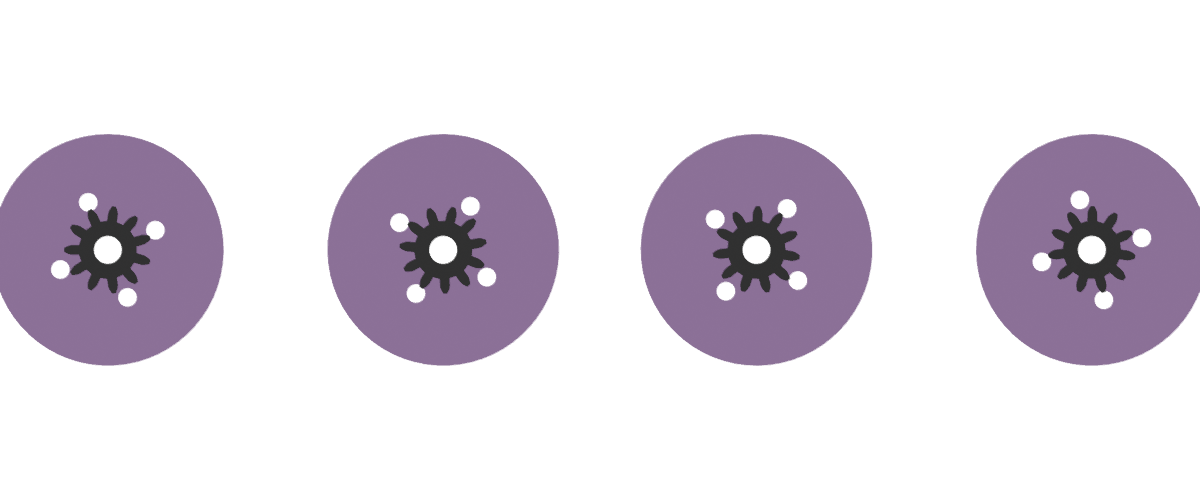
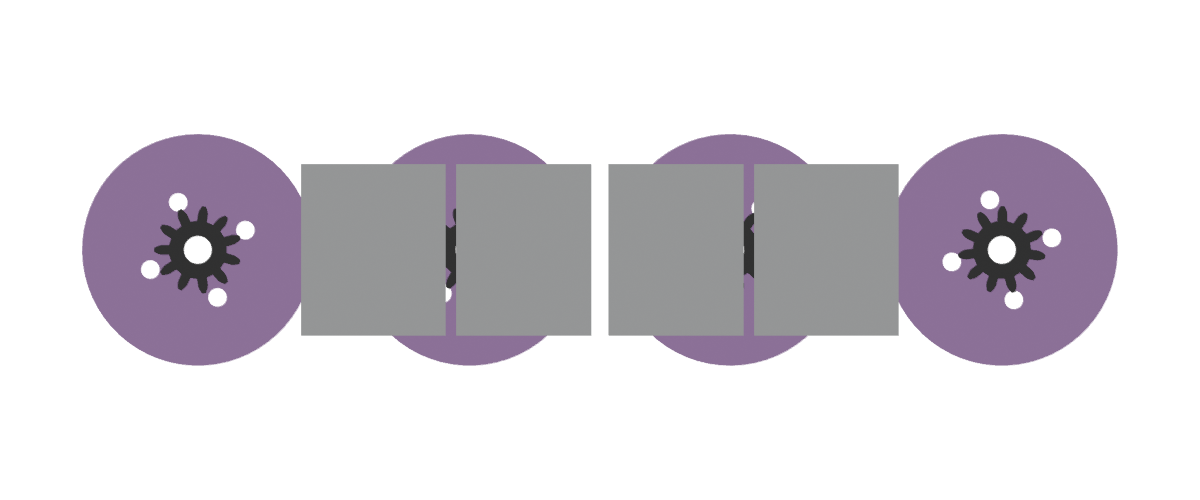
Т. Моторчик 19.59: шаг пальцев 17, длина 123.8; хроника

diff --git a/wiki/t-motorchik-v-telezhki.md b/wiki/t-motorchik-v-telezhki.md
@@ -100,4 +100,4 @@
 | 19.56 | **План проверок v6: вибро, положение, клик** (16.11) — 12 опытов, по итогу выбрать схему | **Вибро от гимбала** (на ток мотора подмешать синус ~80–250 Гц, дрожь идёт через шестерни и рейку прямо в тележку — таблетки могут стать не нужны): **1)** двигать тележку с вибрацией от гимбала, модуль как есть; **2)** то же + мягкая подложка (TPU) под дном всего модуля; **3)** то же + мягкая подложка + крепления мотора жёстко связаны с балкой (мотор и балка — одно целое на мягком). **Вибро-таблетки:** **4)** таблетки под балкой (лёжа); **5)** таблетки боком (стоймя в держателях снизу моста, как в v6); **6)** таблетки + мягкое основание столбов (TPU между столбами и балкой). **Положение тележки:** **7)** магниты сверху (платформа на роторе, 49E в мосту — вариант А); **8)** магниты сбоку (чехол на колоколе, 49E в основании — вариант Б). **Клик:** **9)** кнопка только под одним столбом, внизу; **10)** кнопки под обоими столбами, внизу; **11)** кнопка на конце балки, вверху; **12)** две кнопки на концах балки. Для каждого опыта записать: сила и чёткость ощущения в пальце, утекает ли вибрация в корпус/соседей, чистый ли сигнал 49E (в т.ч. при работе мотора и вибро), чёткость щелчка при нажатии в середине и у краёв хода. Итог — таблица «опыт → результат», по ней выбрать схему для 4 модулей. Модели: строка 19.55 (teleskop_v6 А/Б) | ⬜ Не начато |
 | 19.57 | **Телескоп v6-А, 49E СНИЗУ: колпак ротора с магнитами + датчики в основании** (18.11) | Тест стола 118 (49E в мосту над платформой, зазор 1.5): оба датчика видят магниты отлично (размах ~1600 из 4096), но волны A и B почти в фазе — круг A–B вышел линией, угол не считается. Причины: бобышки упёрлись в край моста и сдвиг вышел ~15° вместо 22.5°; зазор 1.5 даёт острые пики вместо синуса. Заодно упрощаем сборку и проводку. **Колпак ротора (03a) — одна деталь:** платформа сверху (4×М2 в мотор, квадрат под шестерню 03b), юбка вокруг колокола, внизу полка Ø38 с 8 гнёздами под магниты Ø4×1.9 **лицом вниз** на r16.4 (N/S через один); над полкой скос 45° — печать вверх ногами без поддержек. **49E в основании по бокам ободка мотора:** гнёзда ровно по осям (параллельно стенкам), датчик 4.1×3.0×1.5 лежит плашмя лицом вверх, бортики 0.8 с трёх сторон, наружная сторона открыта под выводы, сразу за ней щель проводов вниз сквозь дно. Углы −11.25° и 191.25° (разница ≡ 22.5° — честная квадратура при периоде 90°), зазор магнит—датчик 2.5 (пики → синус). Датчики неподвижны, проводка вся снизу вместе с мотором; в мосту бобышек и канавок больше нет. Сборка: 49E в гнёзда → мотор в ободок → колпак на колокол (4 винта) → шестерня в квадрат → дальше как было. Цена: основание сзади длиннее (43.6), направляющие ножек ниже (8). Рейка тележки на 0.25 ближе к шестерням (проскоки). Планка осей убрана (пока не нужна), оси плавающих шестерён вровень с шестернями. Проверка хода и посадок чистая, STL герметичны. Тест-стенд 49E: папка gitar_49e_test в 3-0 — ESP32 (A: GPIO34 от 3.3V, B: GPIO12 с питанием от GPIO13) + страница web_plot.html (Web Serial: волны, круг A–B, угол). Файлы: [3-0/19.57_teleskop_v6_A_niz](https://github.com/Korvova/gitar/tree/main/3-0/19.57_teleskop_v6_A_niz) (STL, teleskop_v6.py, blender_v6.py, .blend); генератор также в [2-0/teleskop_v6](https://github.com/Korvova/gitar/blob/main/2-0/teleskop_v6/teleskop_v6.py) | 🔄 Печать: основание 01, колпак 03a, мост 02 |
 | 19.58 | **Пара на 2 пальца: тележка спереди над шестернями, два модуля на общем основании** (18.11) | Идея владельца, решает длину вдоль струн (шаг пальцев 24 при моторе Ø27.8). Основа — v6-А снизу (19.57): колпак ротора с магнитами, 49E в основании. **Вариант 2** ([variant2.py](https://github.com/Korvova/gitar/blob/main/3-0/19.58_variant2/variant2.py), стол 119): тележка перенесена **вперёд, прямо над плавающими шестернями**; её рейка зубьями **внутрь**, спинка рейки — задняя сторона ласточкина хвоста, передняя губа тележки обнимает направляющую на передней стенке основания (вверху шире на 1). Неподвижная рейка — отдельная деталь **за шестернями**, концами на стойках бруска, её спинка — второй хвост; тележка держится за обе. Тележка 20.56 вдоль струн = половина модуля (44.5). Моста, ножек и клика нет — тележка ездит по направляющим. **Вариант 2Б** ([variant2b.py](https://github.com/Korvova/gitar/blob/main/3-0/19.58_variant2/variant2b.py), стол 120): тележка той же ширины вынесена вперёд; сзади держится как в варианте 2, спереди — **балка-хвост по центру тележки** на двух колоннах по краям (x ±21…25), снизу тележки два крючка буквой «Г» обнимают балку. Между колоннами под тележкой пусто — место под мотор соседа. **Пара** ([para.py](https://github.com/Korvova/gitar/blob/main/3-0/19.58_variant2/para.py), [para.blend](https://raw.githubusercontent.com/Korvova/gitar/main/3-0/19.58_variant2/para.blend), стол 121): модуль 2Б стоит за модулем 2 на 38.36 — **колпаки моторов юбка к юбке** (зазор 0.36), **площадки под пальцы ровно на шаге 24** (центры y −0.52 и 23.48). Основание общее: оба сложены, всё, что мешает подвижным частям соседа, вырезано; балка тележки Б стоит над мотором А. Проверка: обе тележки по всему ходу ±22 в 15 сочетаниях положений — пересечений нет, тележки не поднимаются. Размер пары 50 × 82.9, высота до верха площадок 29.7. Печать: папка [3-0/19.58_variant2](https://github.com/Korvova/gitar/tree/main/3-0/19.58_variant2), стол `121_para.3mf` (18 деталей), поддержки не нужны; над колпаком мотора А в основании мост около 24 мм. ![Пара на 2 пальца](https://raw.githubusercontent.com/Korvova/gitar/main/wiki/img/para_dva_palca.png =600x0) ![Сверху](https://raw.githubusercontent.com/Korvova/gitar/main/wiki/img/para_sverhu.png =500x0) ![Сбоку](https://raw.githubusercontent.com/Korvova/gitar/main/wiki/img/para_sboku.png =600x0) | 🔄 Модель готова, печать пары |
-| 19.59 | **Ряд на 4 пальца из пар «З + П» на компактных модулях концепта В** (19.11) | Идея владельца. Основа — концепт В ([koncept_C.py](https://github.com/Korvova/gitar/blob/main/3-0/koncepty_ABVG/koncept_C.py)): плавающие шестерни подняты над шестернёй мотора, механизм над мотором, модуль ~30 вдоль струн, без колпака с магнитами. **Модуль «З»** ([modul_za_motorom.py](https://github.com/Korvova/gitar/blob/main/3-0/koncepty_ABVG/modul_za_motorom.py)): рейки поменяны местами — рейка тележки перед шестернями, неподвижная рейка за ними на своих стойках. Тележка цепляет шестерни у края мотора, а сама с площадкой **целиком за краем своего мотора**; лежит на балке-хвосте на двух колоннах по краям, крючки «Г» обнимают балку — тележка не поднимается. **Модуль «П»**: тележка **на половине своего мотора** — над шестернями, губа за спинку неподвижной рейки (она тоже хвост); площадка целиком на тележке, балка не нужна. **Ряд** ([ryad_V4d.py](https://github.com/Korvova/gitar/blob/main/3-0/koncepty_ABVG/ryad_V4d.py), [ryad_V4d.blend](https://raw.githubusercontent.com/Korvova/gitar/main/3-0/koncepty_ABVG/ryad_V4d.blend)): **З1 П1 ‖ П2 З2** — тележка З уходит за свой мотор к модулю П, модули П в середине смотрят шестернями друг к другу, пары зеркальны. Моторы на y −57.4, −18.3, 18.3, 57.4; площадки 15 мм **на шаге 24** (−36, −12, 12, 36). Длина платформы 144.8, высота до верха площадок 29.9. Проверка: тележки П по всему ходу ±22 — пересечений нет, не поднимаются; модуль З проверен отдельно; соседние модули в 9 сочетаниях положений тележек — пересечений нет. **Дальше:** сблизить моторы (владелец: между модулями З и П зазор ~9, его можно убрать — тележки встанут ближе); довести одну пару до деталей на печать; датчик положения — по схеме 19.47 (3×49E в платформе, магниты на тележке), кнопка, крышка. Пройденные шаги этого дня (раскладки ryad_V4, V4b, V4c) — в той же папке. ![Ряд З П П З](https://raw.githubusercontent.com/Korvova/gitar/main/wiki/img/ryad_zp_pz.png =600x0) ![Сверху: моторы и площадки](https://raw.githubusercontent.com/Korvova/gitar/main/wiki/img/ryad_zp_pz_sverhu.png =600x0) ![Модуль З: тележка за мотором](https://raw.githubusercontent.com/Korvova/gitar/main/wiki/img/modul_za_motorom.png =450x0) | 🔄 Раскладка утверждена, дальше — детали на печать |
+| 19.59 | **Ряд на 4 пальца из пар «З + П» на компактных модулях концепта В** (19.11) | Идея владельца. Основа — концепт В ([koncept_C.py](https://github.com/Korvova/gitar/blob/main/3-0/koncepty_ABVG/koncept_C.py)): плавающие шестерни подняты над шестернёй мотора, механизм над мотором, модуль ~30 вдоль струн, без колпака с магнитами. **Модуль «З»** ([modul_za_motorom.py](https://github.com/Korvova/gitar/blob/main/3-0/koncepty_ABVG/modul_za_motorom.py)): рейки поменяны местами — рейка тележки перед шестернями, неподвижная рейка за ними на своих стойках. Тележка цепляет шестерни у края мотора, а сама с площадкой **целиком за краем своего мотора**; лежит на балке-хвосте на двух колоннах по краям, крючки «Г» обнимают балку — тележка не поднимается. **Модуль «П»**: тележка **на половине своего мотора** — над шестернями, губа за спинку неподвижной рейки (она тоже хвост); площадка целиком на тележке, балка не нужна. **Ряд** ([ryad_V4d.py](https://github.com/Korvova/gitar/blob/main/3-0/koncepty_ABVG/ryad_V4d.py), [ryad_V4d.blend](https://raw.githubusercontent.com/Korvova/gitar/main/3-0/koncepty_ABVG/ryad_V4d.blend)): **З1 П1 ‖ П2 З2** — тележка З уходит за свой мотор к модулю П, модули П в середине смотрят шестернями друг к другу, пары зеркальны. **Шаг пальцев 17 (19.11, владелец: «вроде вообще идеально»):** площадки 15 мм на −25.5, −8.5, 8.5, 25.5 (зазор 2), моторы на −46.9, −15.2, 15.2, 46.9. Меньше 17 в середине нельзя: модули П стоят шестернями друг к другу, ближе 30.4 между моторами задевают ползуны. Шаг задаётся одной цифрой (PITCH в ryad_V4d.py) — если на руке окажется тесно, тележки раздвигаются. Длина платформы 123.8 (было 144.8 при шаге 24), высота до верха площадок 29.9. Проверка: тележки П по всему ходу ±22 — пересечений нет, не поднимаются; модуль З проверен отдельно; соседние модули в 9 сочетаниях положений тележек — пересечений нет. **Дальше:** довести одну пару до деталей на печать; датчик положения — по схеме 19.47 (3×49E в платформе, магниты на тележке), кнопка, крышка. Пройденные шаги этого дня (раскладки ryad_V4, V4b, V4c) — в той же папке. ![Ряд З П П З](https://raw.githubusercontent.com/Korvova/gitar/main/wiki/img/ryad_zp_pz.png =600x0) ![Сверху: моторы и площадки](https://raw.githubusercontent.com/Korvova/gitar/main/wiki/img/ryad_zp_pz_sverhu.png =600x0) ![Модуль З: тележка за мотором](https://raw.githubusercontent.com/Korvova/gitar/main/wiki/img/modul_za_motorom.png =450x0) | 🔄 Раскладка утверждена, дальше — детали на печать |

diff --git a/wiki/hronika.md b/wiki/hronika.md
@@ -2,6 +2,7 @@
 
 | Дата | Что произошло | Итог |
 |---|---|---|
+| 19.11.2026 | Ряд «З + П» сжат: одинаковый шаг пальцев 17 (было 24), моторы ближе, длина 123.8; шаг меняется одной цифрой, если на руке тесно | 🔄 [Т. Моторчик в тележке, 19.59](/homepage/iniciativa.-razrabotka/jepik-ruka-gitara/t-motorchik-v-telezhki) |
 | 19.11.2026 | Ряд на 4 пальца из пар «З + П» на компактных модулях концепта В: З — тележка целиком за мотором на балке, П — тележка на половине мотора; З1 П1 \| П2 З2, площадки на шаге 24, длина 144.8 | 🔄 [Т. Моторчик в тележке, 19.59](/homepage/iniciativa.-razrabotka/jepik-ruka-gitara/t-motorchik-v-telezhki) |
 | 18.11.2026 | Пара на 2 пальца: тележка спереди над шестернями (рейка внутрь, вторая направляющая — спинка неподвижной рейки), второй модуль с вынесенной тележкой на балке; общее основание, колпаки юбка к юбке, площадки на шаге 24 | 🔄 [Т. Моторчик в тележке, 19.58](/homepage/iniciativa.-razrabotka/jepik-ruka-gitara/t-motorchik-v-telezhki) |
 | 18.11.2026 | Тест 49E на столе 118: сигнал сильный, но датчики почти в фазе (сдвиг ~15°, острые пики) → v6-А «снизу»: колпак ротора одной деталью с полкой магнитов вниз, 49E плашмя в гнёздах основания по бокам мотора, честные 22.5°, зазор 2.5, вся проводка снизу | 🔄 [Т. Моторчик в тележке](/homepage/iniciativa.-razrabotka/jepik-ruka-gitara/t-motorchik-v-telezhki) 19.57 |
